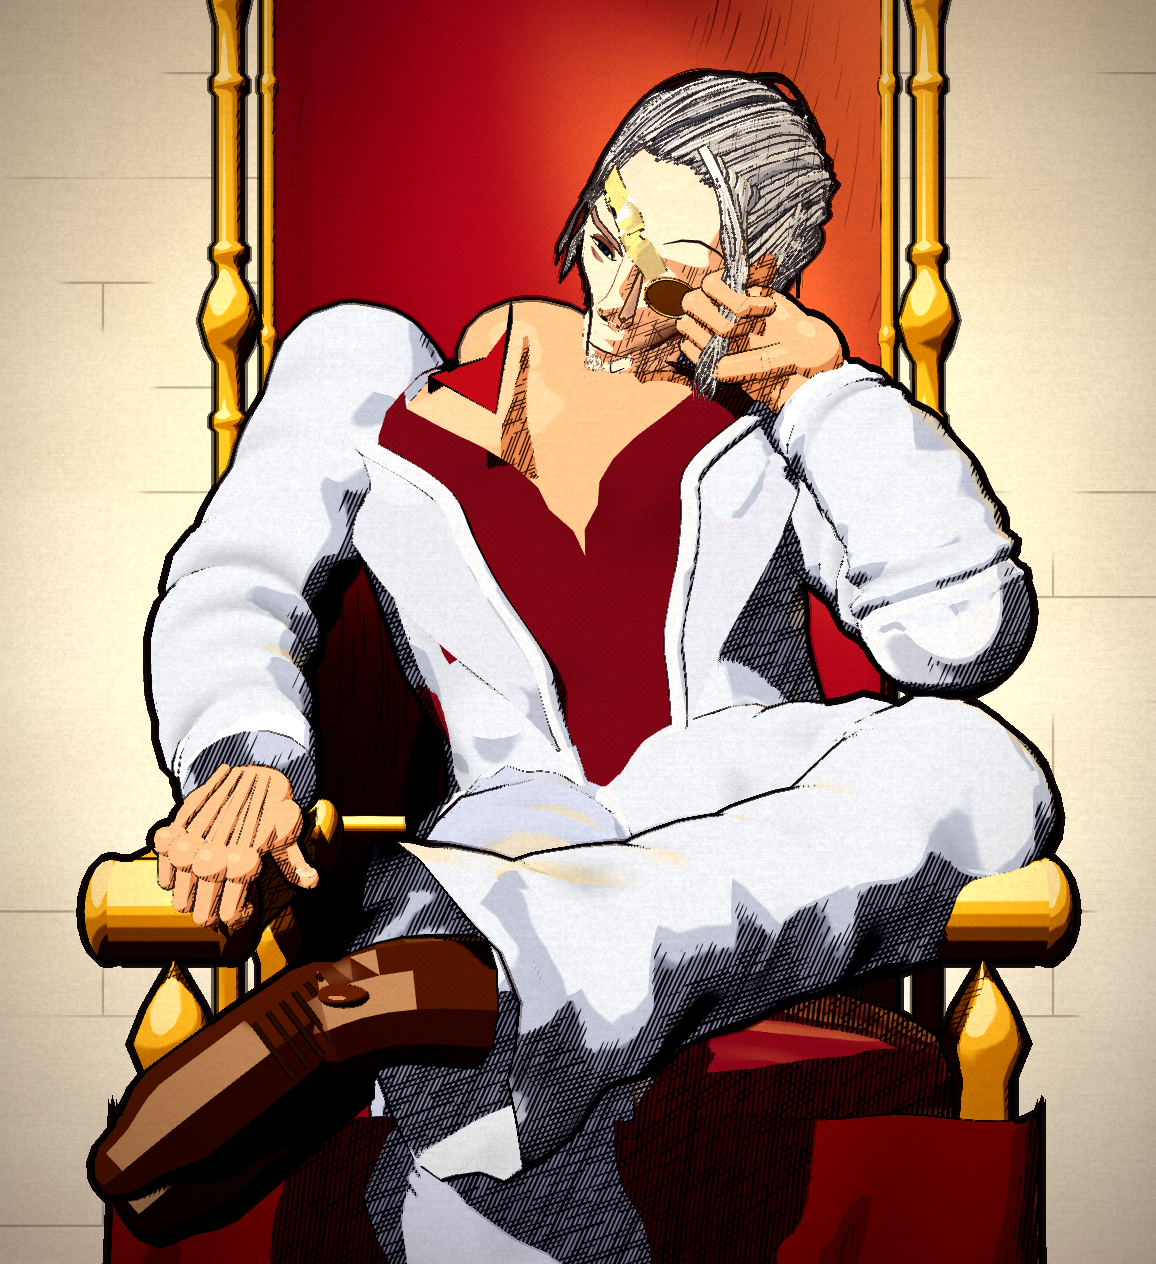
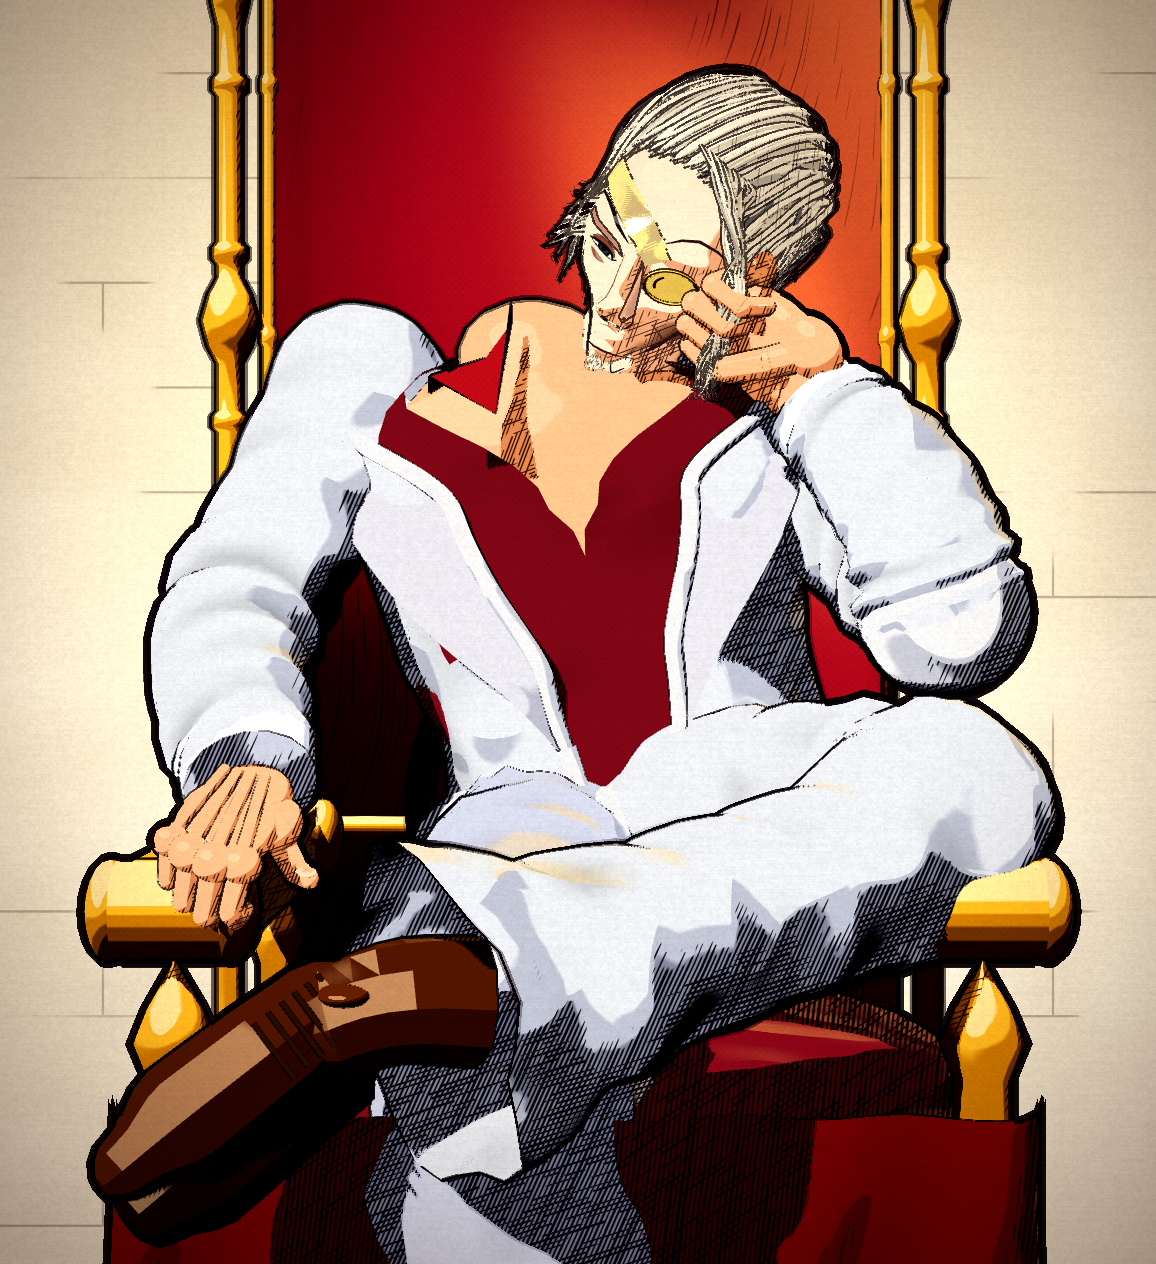
baku3d: round 3 head, face and hair pass
Claude-Session: https://claude.ai/code/session_01JH6q5z1jEaKTaWuFe2UCrC

Changed region(s): [[0.4671, 0.0309, 0.7474, 0.3394]]

diff --git a/baku3d/src/headB_hair.js b/baku3d/src/headB_hair.js
@@ -35,10 +35,10 @@ export function buildHair(THREE, style, field, skullGeo) {
 
   // ---- buckets per colour
   const palette = [
-    { hex: 0xf8f8fa, w: 0.42 }, { hex: 0xe6e8ee, w: 0.26 }, { hex: 0xc9ccd6, w: 0.16 }, { hex: 0xa3a8b6, w: 0.08 },
+    { hex: 0xfaf6ea, w: 0.46 }, { hex: 0xf2eee2, w: 0.30 }, { hex: 0xdedacd, w: 0.14 }, { hex: 0xc2bfb6, w: 0.06 },
   ];
   const buckets = palette.map(p => ({ ...p, pos: [], idx: [] }));
-  const ink = { hex: 0x4a4e5c, pos: [], idx: [] };
+  const ink = { hex: 0x6a6a70, pos: [], idx: [] };
   const inkDeep = { hex: 0x23242e, pos: [], idx: [] };
   const pick = () => { let r = rnd() * 0.92, a = 0; for (const b of buckets) { a += b.w; if (r < a) return b; } return buckets[0]; };
 
@@ -88,7 +88,7 @@ export function buildHair(THREE, style, field, skullGeo) {
     geo.setAttribute('position', new THREE.BufferAttribute(off, 3));
     geo.setIndex(I);
     geo.computeVertexNormals();
-    const m = new THREE.Mesh(geo, style.toon(0xe4e6ec, { role: 'hair', side: THREE.DoubleSide, hatch: 0.2, outline: 0 }));
+    const m = new THREE.Mesh(geo, style.toon(0xece8dc, { role: 'hair', side: THREE.DoubleSide, hatch: 0.2, outline: 0 }));
     m.name = 'scalp'; group.add(m);
   }
 
@@ -100,9 +100,9 @@ export function buildHair(THREE, style, field, skullGeo) {
     return [CEN[0] + dx * lo, CEN[1] + dy * lo, CEN[2] + dz * lo, dx, dy, dz];
   }
   const d2r = Math.PI / 180;
-  const layers = 5;
+  const layers = 4;
   for (let l = 0; l < layers; l++) {
-    for (let az = -104; az <= 104; az += 2.9) {
+    for (let az = -104; az <= 104; az += 3.4) {
       const az0 = (az + R(-1, 1)) * d2r, sn = Math.sin(az0), cs = Math.cos(az0);
       const side = sm(48, 100, Math.abs(az)), sgn = az < 0 ? -1 : 1;
       // root: first elevation whose surface point is above the hairline
@@ -128,15 +128,15 @@ export function buildHair(THREE, style, field, skullGeo) {
         const a = (1 - t) * (1 - t), b = 2 * t * (1 - t) * kk, c = t * t;
         const dd = V(d0.x * a + via.x * b + d1.x * c, d0.y * a + via.y * b + d1.y * c, d0.z * a + via.z * b + d1.z * c).normalize();
         const q = surf(dd.x, dd.y, dd.z);
-        const bump = (0.005 + 0.007 * (1 - 0.3 * side)) * Math.max(0, Math.sin(Math.PI * Math.min(1, t * 1.15))) ** 0.7 * sm(0.0, 0.5, t);
+        const bump = (0.008 + 0.010 * (1 - 0.3 * side)) * Math.max(0, Math.sin(Math.PI * Math.min(1, t * 1.15))) ** 0.7 * sm(0.0, 0.5, t);
         const e = eps + bump + lift * Math.max(0, Math.sin(Math.PI * t / tEnd)) ** 1.5;
         const wob = Math.sin(t * fr * 3 + ph1) * amp;
         pts.push(V(q[0] + dd.x * e + wob, q[1] + dd.y * e, q[2] + dd.z * e));
       }
-      const w0 = R(0.0044, 0.0088) * (1 - 0.2 * side);
+      const w0 = R(0.0058, 0.0110) * (1 - 0.2 * side);
       const b = (rnd() < 0.035) ? (rnd() < 0.3 ? inkDeep : ink) : pick();
       strand(b, pts, taper(w0, 0.05, 0.30, 0.0), 0.0015);
-      if (l >= 1 && rnd() < 0.16) {
+      if (l >= 1 && rnd() < 0.07) {
         const q = pts.map((p, i) => p.clone().addScaledVector(tmpN.subVectors(p, cen).normalize(), -0.0014).add(V(0.0018, 0, 0)));
         strand(rnd() < 0.5 ? ink : inkDeep, q, taper(0.0014, 0.1, 0.35), 0.0008);
       }
@@ -160,14 +160,27 @@ export function buildHair(THREE, style, field, skullGeo) {
   }
 
   // ---- 3. hand-placed hanging locks, bangs and flicks
-  function lock(bucket, ctrl, w, th = 0.0017, segs = 26, cenOv) {
+  function lock(bucket, ctrl, w, th = 0.0017, segs = 26, cenOv, wav = 0.0025, curl = 0.006) {
     const c = new THREE.CatmullRomCurve3(ctrl.map(p => V(...p)), false, 'catmullrom', 0.5);
-    strand(bucket, c.getPoints(segs), taper(w, 0.06, 0.38), th, cenOv);
+    const pts = c.getPoints(segs);
+    if (wav) {
+      const ph = R(0, 6.28), fq = R(5, 9);
+      for (let i = 1; i < pts.length; i++) {
+        const t = i / (pts.length - 1), a = pts[Math.max(0, i - 1)], b = pts[Math.min(pts.length - 1, i + 1)];
+        tmpT.subVectors(b, a).normalize();
+        tmpN.subVectors(pts[i], cenOv || cen).normalize();
+        tmpB.crossVectors(tmpT, tmpN).normalize();
+        const k = wav * Math.sin(t * fq + ph) * Math.min(1, t * 2.2);
+        pts[i].addScaledVector(tmpB, k);
+        if (curl && t > 0.8) { const u = (t - 0.8) / 0.2; pts[i].addScaledVector(tmpN, curl * Math.sin(u * 3.0) * u); pts[i].y += curl * 0.6 * (1 - Math.cos(u * 3.0)) * 0.5; }
+      }
+    }
+    strand(bucket, pts, taper(w, 0.06, 0.38), th, cenOv);
   }
   // right (viewer's) long bangs: a thick wavy sweep falling from the parting over the temple, hanging beside the cheek
   const lockCen = V(0, 0.04, -0.01);
-  for (let i = 0; i < 30; i++) {
-    const u = i / 29, jit = () => R(-0.0065, 0.0065);
+  for (let i = 0; i < 46; i++) {
+    const u = i / 45, jit = () => R(-0.0065, 0.0065);
     const x0 = 0.000 + 0.05 * u;
     const wave = R(0.002, 0.008), sgn = rnd() < 0.5 ? 1 : -1;
     const len = 0.55 + 0.6 * R(0, 1);
@@ -180,7 +193,7 @@ export function buildHair(THREE, style, field, skullGeo) {
       [0.088 + 0.006 * u + wave * sgn, -0.006 - 0.040 * len, 0.058 - 0.012 * u],
       [0.084 + 0.012 * u - wave * sgn * 0.5 + 0.008 * u, -0.030 - 0.045 * len, 0.045 - 0.018 * u],
     ];
-    lock(rnd() < 0.18 ? buckets[2] : pick(), ctrl, R(0.0050, 0.0105), 0.0020, 30, lockCen);
+    lock(rnd() < 0.16 ? buckets[2] : pick(), ctrl, R(0.0028, 0.0058), 0.0016, 34, lockCen, R(0.002, 0.004), R(0.004, 0.009));
   }
   // left (viewer's) temple: a few short locks fall in front of the ear, tucked close to the head
   for (let i = 0; i < 9; i++) {
@@ -193,6 +206,17 @@ export function buildHair(THREE, style, field, skullGeo) {
       [-0.083 - 0.003 * u + jit(), -0.016 - 0.024 * u * R(0.5, 1.2), 0.022 - 0.012 * u],
     ];
     lock(pick(), ctrl, R(0.0045, 0.0085), 0.0017, 20, lockCen);
+  }
+  // curly wisps around the viewer's-left ear / temple
+  for (let i = 0; i < 12; i++) {
+    const u = i / 11, jit = () => R(-0.002, 0.002);
+    const y0 = 0.050 - 0.060 * u;
+    lock(pick(), [
+      [-0.062 + jit(), y0 + 0.012, 0.036],
+      [-0.080 + jit(), y0, 0.026],
+      [-0.092 - 0.006 * u + jit(), y0 - 0.014, 0.014],
+      [-0.098 - 0.008 * u + jit(), y0 - 0.030 * R(0.6, 1.2), 0.002],
+    ], R(0.0030, 0.0055), 0.0015, 18, lockCen, 0.0022, 0.008);
   }
   // sideburn flicks above both ears
   for (const sg of [-1, 1]) for (let i = 0; i < 8; i++) {

diff --git a/baku3d/src/head.js b/baku3d/src/head.js
@@ -228,7 +228,7 @@ export function buildHead(THREE, style) {
   const gold = style.toon(0xe8c040, { role: 'gold', side: THREE.DoubleSide });
   const goldLight = style.toon(0xf6d460, { role: 'gold' });
   const goldDark = style.toon(0xa8741a, { role: 'gold' });
-  const C = [0.037, -0.004], RING = 0.0225, RY = 0.70;
+  const C = [0.034, 0.006], RING = 0.0225, RY = 0.72;
   {
     const goldStrap = style.toon(0xf8e79a, { role: 'eye', side: THREE.DoubleSide });
     const E = [C[0] - RING * 0.72, C[1] + RING * RY * 0.72];
@@ -241,7 +241,7 @@ export function buildHead(THREE, style) {
     }
     const curveS = new THREE.CatmullRomCurve3(ctrl, false, 'catmullrom', 0.5);
     const pts = curveS.getPoints(60);
-    const cen = new V3(0, 0.05, -0.012), hw = 0.0105, th = 0.0016;
+    const cen = new V3(0, 0.05, -0.012), hw = 0.0125, th = 0.0016;
     const pos = [], idx = [], tt = new V3(), nn = new V3(), bb = new V3();
     for (let i = 0; i < pts.length; i++) {
       const a = pts[Math.max(0, i - 1)], b = pts[Math.min(pts.length - 1, i + 1)];
@@ -261,7 +261,7 @@ export function buildHead(THREE, style) {
     const disc = new THREE.Group(); disc.name = 'monocle'; disc.position.copy(cp); disc.quaternion.copy(q);
     disc.rotateY(0.22); disc.rotateX(-0.08);
     const inner = new THREE.Group(); inner.scale.set(1, RY, 1); disc.add(inner);
-    const lensGold = style.toon(0xf3d460, { role: 'gold', side: THREE.DoubleSide });
+    const lensGold = style.toon(0xf7dc6c, { role: 'eye', side: THREE.DoubleSide, outline: false });
     const ring = new THREE.Mesh(new THREE.TorusGeometry(RING, 0.0016, 8, 48), gold); ring.name = 'monocleRing'; inner.add(ring);
     const lens = new THREE.Mesh(new THREE.CircleGeometry(RING - 0.0006, 40), lensGold); lens.position.z = -0.0006; lens.name = 'monocleLens'; inner.add(lens);
     const lensHi = new THREE.Mesh(new THREE.RingGeometry(RING * 0.55, RING * 0.66, 24, 1, 2.2, 1.4), style.toon(0xfffbd0, { role: 'gold', side: THREE.DoubleSide })); lensHi.position.z = 0.0003; inner.add(lensHi);
